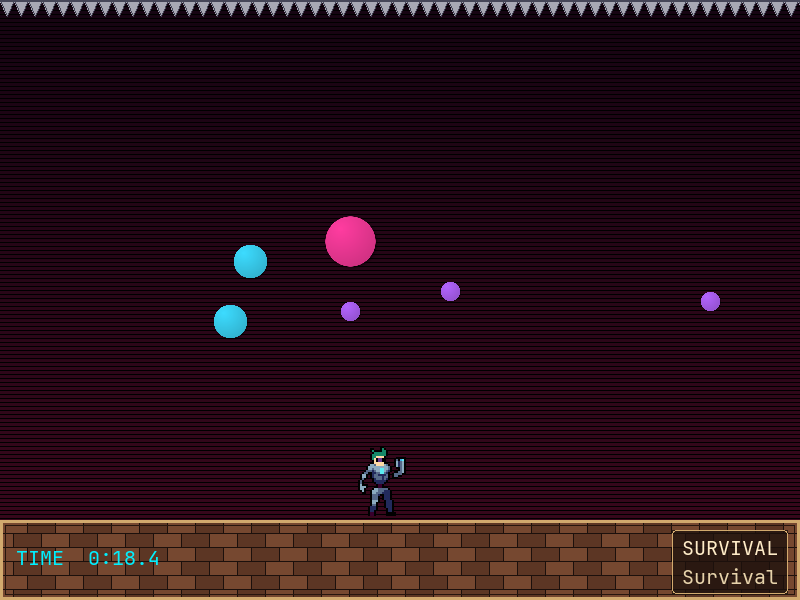
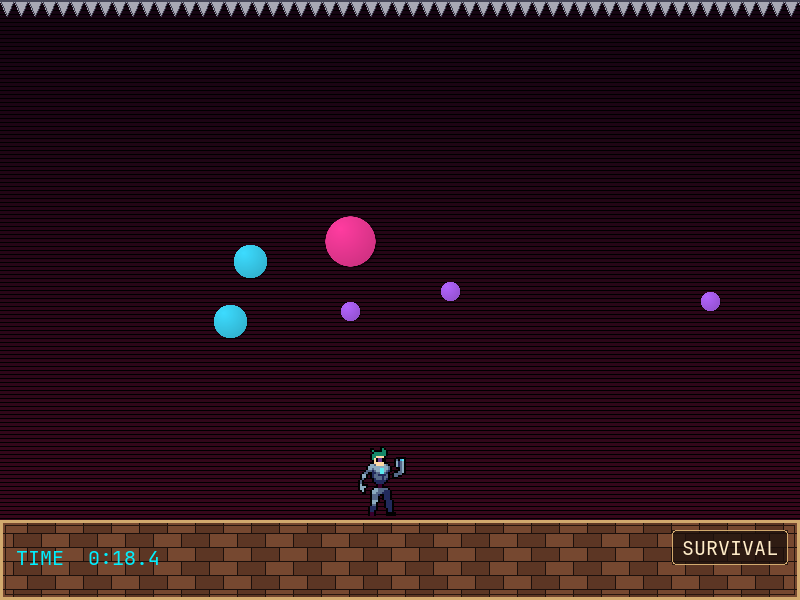
fix: show a single SURVIVAL label on the HUD plate and refresh the screenshot.

Changed region(s): [[0.8125, 0.93, 1.0, 0.99]]

diff --git a/Scripts/main.py b/Scripts/main.py
@@ -643,24 +643,38 @@ class Game:
             # Level plate on the right — dark plate for contrast on brick
             if self._is_survival():
                 label = self.font.render("SURVIVAL", True, HUD_TEXT)
+                name = None
             else:
                 label = self.font.render(
                     f"LEVEL {self.current_level.id}",
                     True,
                     HUD_TEXT,
                 )
-            name = self.font.render(self.current_level.name, True, HUD_TEXT_DIM)
+                name = self.font.render(self.current_level.name, True, HUD_TEXT_DIM)
             pad = 10
-            plate_w = max(label.get_width(), name.get_width()) + pad * 2
-            plate_h = label.get_height() + name.get_height() + 10
+            name_w = name.get_width() if name is not None else 0
+            name_h = name.get_height() if name is not None else 0
+            plate_w = max(label.get_width(), name_w) + pad * 2
+            plate_h = label.get_height() + (name_h + 10 if name is not None else 8)
             plate = pygame.Rect(0, 0, plate_w, plate_h)
             plate.topright = (SCREEN_WIDTH - 12, PLAY_BOTTOM + 10)
             plate_surf = pygame.Surface(plate.size, flags=pygame.SRCALPHA)
             plate_surf.fill(HUD_TEXT_PLATE)
             self.screen.blit(plate_surf, plate.topleft)
             pygame.draw.rect(self.screen, PANEL_FRAME, plate, width=1, border_radius=4)
-            self.screen.blit(label, (plate.left + pad, plate.top + 4))
-            self.screen.blit(name, (plate.left + pad, plate.top + 4 + label.get_height() + 2))
+            if name is None:
+                self.screen.blit(
+                    label,
+                    (
+                        plate.left + pad,
+                        plate.top + (plate_h - label.get_height()) // 2,
+                    ),
+                )
+            else:
+                self.screen.blit(label, (plate.left + pad, plate.top + 4))
+                self.screen.blit(
+                    name, (plate.left + pad, plate.top + 4 + label.get_height() + 2)
+                )
 
             living = self._living_players()
             # Weapon mode under the time / chronometer (inside the panel)
